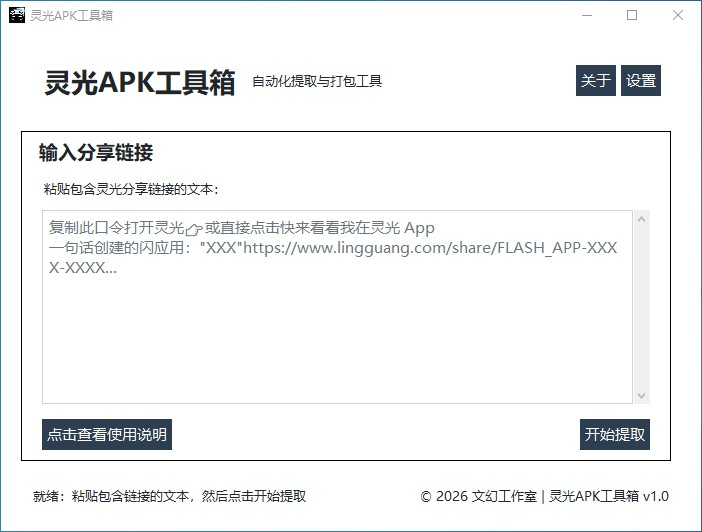
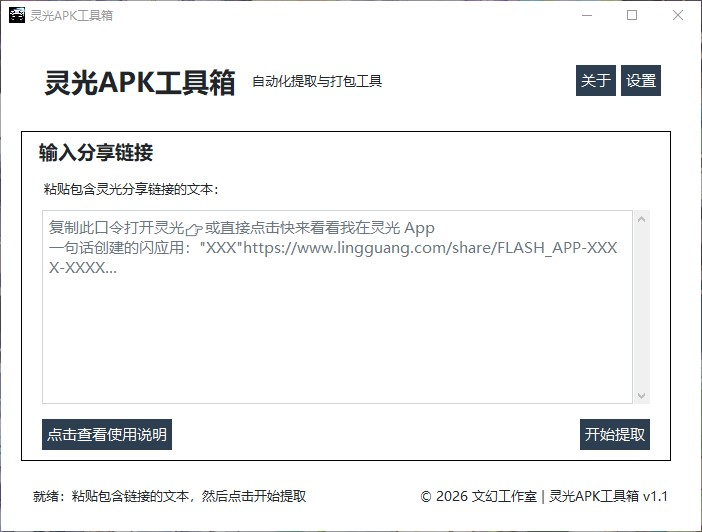
完善README文件信息与软件截图

diff --git a/README.md b/README.md
@@ -20,15 +20,19 @@
 ### 打包界面
 ![打包界面](Screen/pack.jpg)
 
+### 设置界面
+![设置界面](Screen/setting.jpg)
+
 ## 功能特性
 
 - **智能链接提取**：自动识别并提取灵光分享链接中的网页内容
 - **APK打包**：将提取的网页内容转换为可安装的Android APK应用
 - **自定义应用信息**：支持设置应用名称、版本号、包名等信息
 - **图标自定义**：支持自定义应用图标
-- **自动签名**：内置签名证书，自动为生成的APK进行数字签名
+- **自动签名**：内置签名证书或使用独立签名证书，自动为生成的APK进行数字签名
 - **用户友好界面**：简洁直观的图形化界面，操作简单
 - **可配置参数**：支持调整等待时间等参数
+- **离线模式支持**：自动下载HTML中的外部资源，确保应用在离线状态下也能正常工作
 - **免责声明**：内置用户协议和免责声明，确保合规使用
 
 ## 安装说明
@@ -37,7 +41,7 @@
 
 - **操作系统**：Windows 10/11
 - **Python版本**：3.7 或更高版本
-- **依赖库**：tkinter, PIL, playwright, ttkbootstrap
+- **依赖库**：tkinter, PIL, playwright, ttkbootstrap, beautifulsoup4, requests, lxml
 
 ### 安装步骤
 
@@ -106,21 +110,23 @@
 
 ```
 灵光APK工具箱/
-├── main.py                # 主程序入口，GUI界面
+├── main.py                   # 主程序入口，GUI界面
 ├── py/
-│   ├── config.py          # 配置文件管理
-│   ├── extract_iframe.py  # 网页内容提取模块
-│   ├── Generate_apk.py    # APK生成模块
-│   └── signature.py       # APK签名模块
-├── apk_template/          # APK模板文件
-├── resources/             # 资源文件
-├── key/                   # 签名证书
-├── icon/                  # 应用图标
-├── images/                # 界面图片资源
-├── Screen/                # 软件截图
-├── config.json            # 配置文件
-├── requirements.txt       # Python依赖
-└── README.md              # 项目说明
+│   ├── config.py             # 配置文件管理
+│   ├── extract_iframe.py     # 网页内容提取模块
+│   ├── Generate_apk.py       # APK生成模块
+│   ├── localize_resources.py # 网页内容提取模块（离线模式支持）
+│   ├── resource_utils.py     # 资源路径处理模块
+│   └── signature.py          # APK签名模块
+├── apk_template/             # APK模板文件
+├── resources/                # 资源文件
+├── key/                      # 签名证书
+├── icon/                     # 应用图标
+├── images/                   # 界面图片资源
+├── Screen/                   # 软件截图
+├── config.json               # 配置文件
+├── requirements.txt          # Python依赖
+└── README.md                 # 项目说明
 ```
 
 ## 技术栈
@@ -137,7 +143,8 @@
 
 ```json
 {
-    "wait_time": 20  // 网页加载等待时间（秒）
+    "wait_time": 20,  // 网页加载等待时间（秒）
+    "offline_mode": false  // 是否启用离线模式
 }
 ```
 
